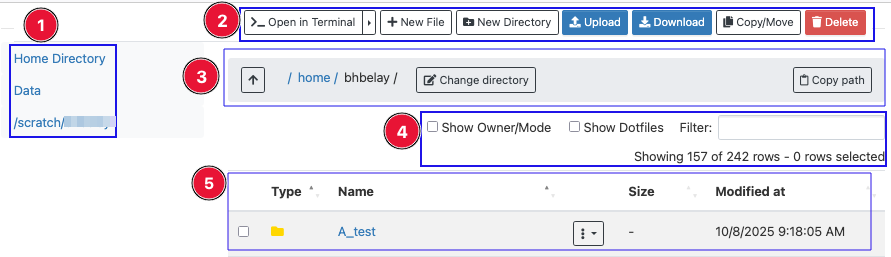
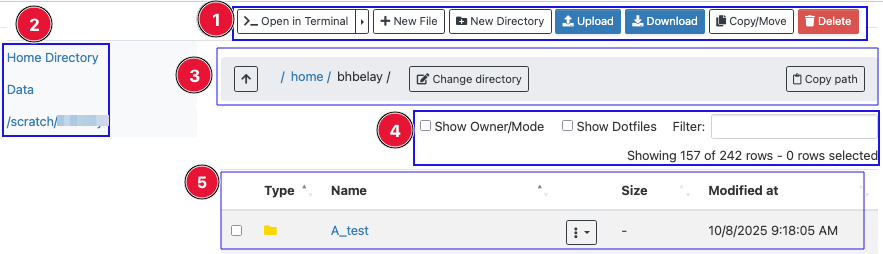
lable the file browser control image in keyboard navigation order

diff --git a/docs/cheaha/open_ondemand/ood_layout.md b/docs/cheaha/open_ondemand/ood_layout.md
@@ -23,27 +23,17 @@ You can open a file browser in a new tab by clicking the `Files` dropdown and se
 
 ![!Basic file browser for OOD.](./images/file_browser.png)
 
-1. **Quick Access Directories**: These links provide you with one click navigation to your most common workspaces (your Home, Data, or Scratch directory).
-1. **Operations Control Bar**: This bar contains buttons that allow you to open the login node terminal, create a new file or directory, and upload, download, copy/move, or delete files and directories. You can find more information in the [OOD Command Menu](#ood-command-menu) section.
-1. **Path Control Bar**: The control bar that displays your current location. The change directory option allow you to quickly jump to any path including the parent directories while the copy path button allow you to copy the current displayed path as text.
-1. **Custom view and metadata**: check "Show Dotfiles" to view hidden files, and "Owner/Mode" to view permission of the directory/file.
-1. **File and Folders List**: The interactive area where you can open folders or select files to view, edit, rename, download, or delete.
+1. **Operations Control Bar**: The operations control bar contains buttons for managing files and directories. The buttons allow you to open the login node terminal, create a new file, create a new file directory, and upload, download, copy/move, or delete files and directories. You can find more information in the [OOD Command Menu](#ood-command-menu) section.
+1. **Quick Access Directories**: The quick access directories area provides links for one click navigation to your most common workspaces (your Home, Data, or Scratch directory).
+1. **Path Control Bar**: The path control bar that displays your current location. The change directory option allow you to quickly jump to any path including the parent directories while the copy path button allow you to copy the current displayed path as text.
+1. **Custom view and metadata**: In the custom view and metadata section, check the "Show Dotfiles" option to display hidden files. Check the "Owner/Mode" option to view the permissions of files and directories. You can also filter the displayed files and folders by entering a search keyword in the filter box.
+1. **File and Folders List**: The interactive area where you can open folders or select files. You can view, edit, rename, download, or delete files from this area.
 
 ### Renaming File
 
-To rename a file, open the three-dot menu next to the file name and select `Rename`, then enter the new name.
+To rename a file, click the three-dot menu next to the file name in the unlabeled Actions column, select Rename, and then enter the new name.
 
 ![!An image showing the Rename options on Cheaha File Browser](images/file_browser_rename.png)
-
-<!-- markdownlint-disable MD046 -->
-!!! note
-
-    Use clear, valid filenames when naming or renaming files. The filename field cannot be left empty.
-<!-- markdownlint-enable MD046 -->
-
-Below is an example that shows how leaving the box empty while renaming the folder "test_rename".
-
-![!An image showing the Rename/Move button left empty on Cheaha File Browser](images/file_browser_rename_move_empty.png)
 
 ### OOD Command Menu
 
